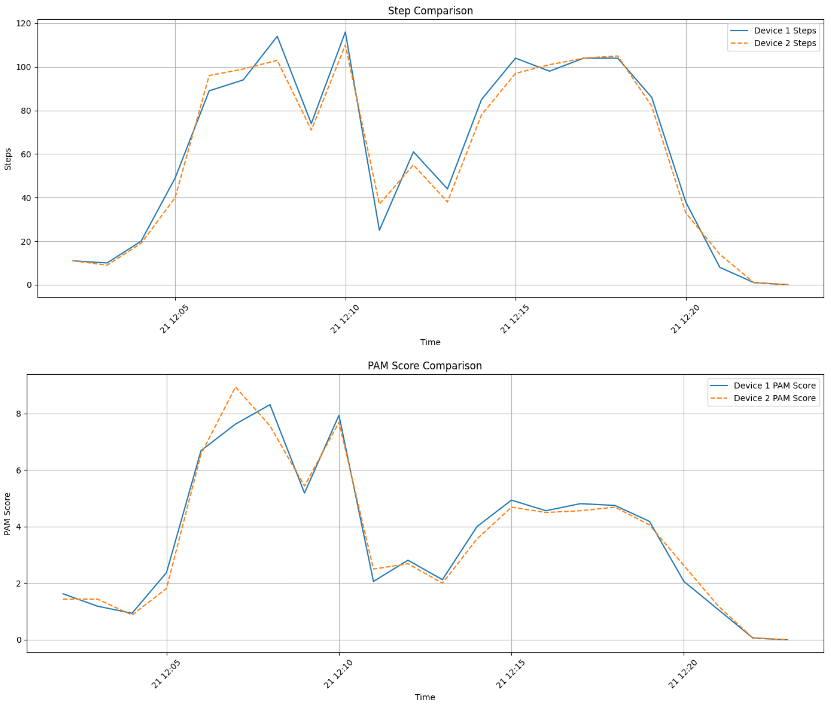
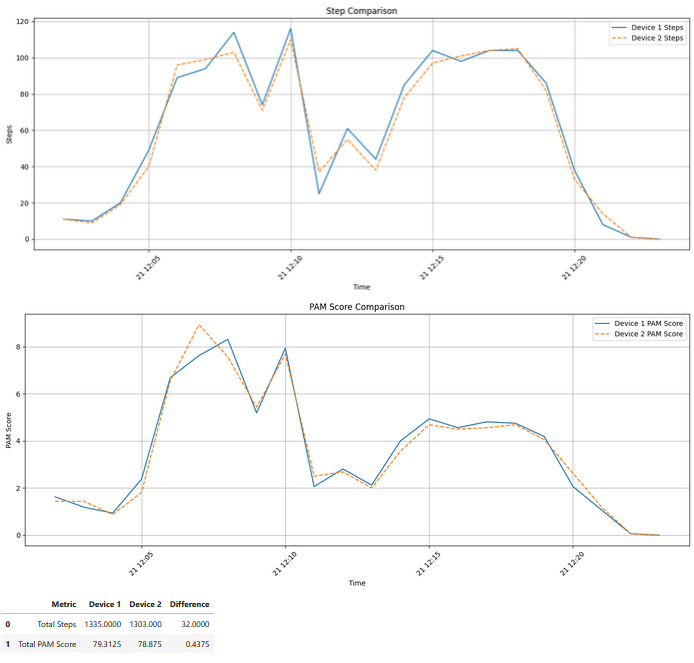
research short term results

diff --git a/docs/Research/Research_redo.md b/docs/Research/Research_redo.md
@@ -1,0 +1,14 @@
+# Old research
+For working with the hipper device, we need to ensure that the data we get from the device is correct data that we can trust. The original developers for the device did some tests and had some problems with wearing 2 devices at the same time and getting different data from these devices. In their research they had a big difference in the PAM score and the amount of steps compared to the 2 devices. This should not happen because both made the same movements at the same time. This is something we have to fix, wich is why we need to do this research again. 
+
+## The old research
+
+## New results
+These are the results of re doing the research
+
+### Short term tests
+We did a small test taping 2 devices together and doing a small walk of around 20-30minutes. These small term results with our code to pull the data gave us some very good results with not much difference in the results between the 2 devices. These results where mapped out in a [jupiter file](../../src/back-end/datasets/research/my_notebook.ipynb). The results were as follows:
+![results](../assets/ResearchRedo/ShortTermResults.png)
+The small differences seen in the PAM scores and steps could be due to that the devices only saves the data from entire minutes. These minutes can end at different moments on the devices because they are not reset at the exact same time. This means that their could be small differences. The rest of these results look pretty promissing with the results being almost the same. 
+
+### long term tests